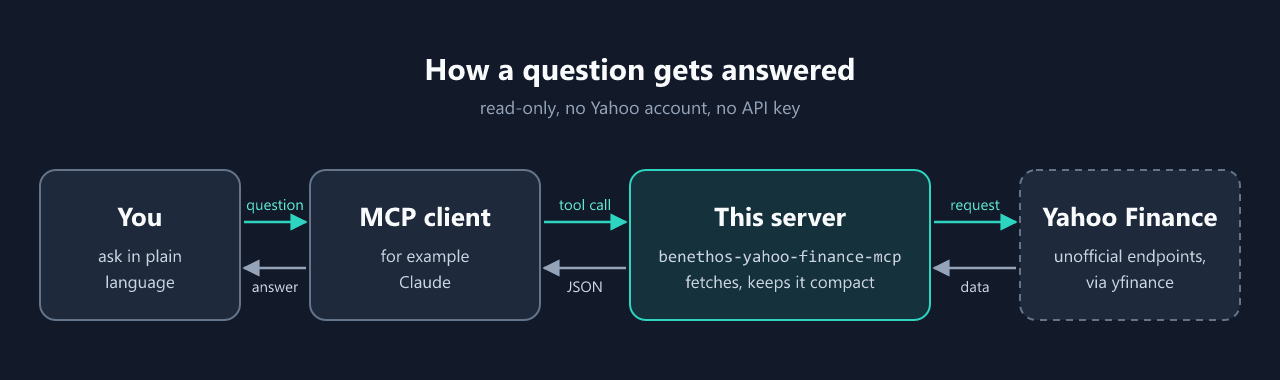
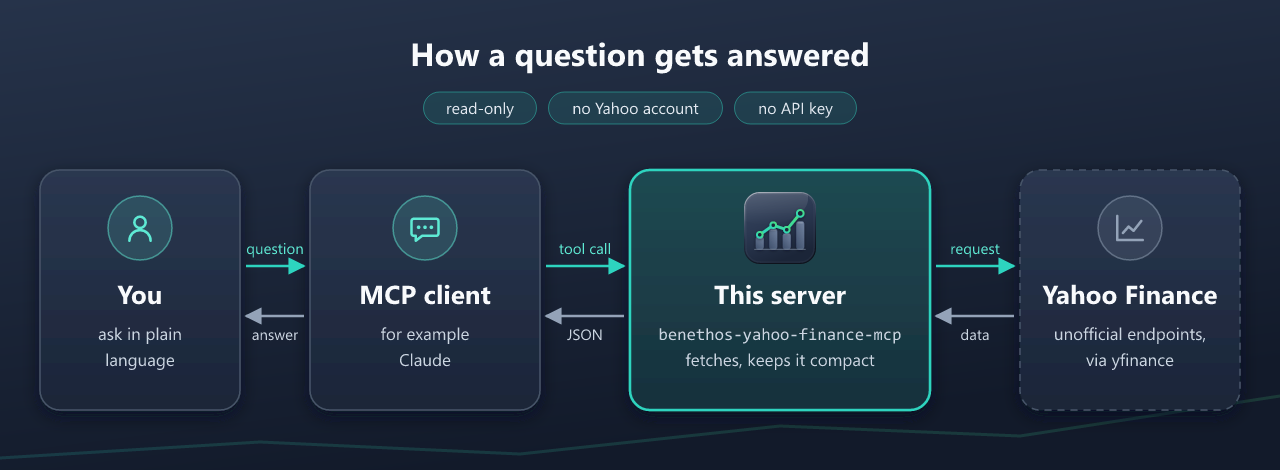
Redraw the architecture picture with symbols (#159)
Each station gets a symbol in a round plate, a person, a chat bubble and a
plain chart, and the server its own icon. The background and the cards take
the gradients of the social preview, and "read-only, no Yahoo account, no
API key" become pills. No logo of Yahoo or of a client, the project is
unofficial. The stations and the words on them stay as they were, so the
alt text in the README and SPECS still holds. 1280x470, up from 380.

render_icon.py rendered it on Windows with resvg 0.5.0, as its docstring
says. icon.png and social-preview.png came out byte for byte the same.

diff --git a/assets/render_icon.py b/assets/render_icon.py
@@ -47,7 +47,7 @@ ICON_SIZE = 512
 PREVIEW_PNG = BRAND / "social-preview.png"
 PREVIEW_WIDTH, PREVIEW_HEIGHT = 1280, 640
 ARCHITECTURE_PNG = HERE / "architecture.png"
-ARCHITECTURE_WIDTH, ARCHITECTURE_HEIGHT = 1280, 380
+ARCHITECTURE_WIDTH, ARCHITECTURE_HEIGHT = 1280, 470
 
 # The preview's words. Unofficial is spelled out and nothing borrows Yahoo's
 # look: the icon and the colours are the project's own.
@@ -119,29 +119,71 @@ def _icon(x: int, y: int, size: int) -> str:
     )
 
 
-def _step(x: int, w: int, title: str, *lines: str, kind: str) -> str:
-    """One station on the way, a title and a line or two under it.
+# Plain line symbols on a 24 unit grid, for the stations that are not this
+# project. No logo of anyone else: the project is unofficial, and neither
+# Yahoo's nor a client's look belongs in its picture.
+SYMBOLS = {
+    "person": (
+        '<circle cx="12" cy="8" r="4"/>'
+        '<path d="M4.5 21c0-4.2 3.3-7.5 7.5-7.5s7.5 3.3 7.5 7.5"/>'
+    ),
+    "chat": (
+        '<path d="M4 5.5h16a1.5 1.5 0 0 1 1.5 1.5v9a1.5 1.5 0 0 1-1.5 1.5H10'
+        'l-4.5 3.5v-3.5H4A1.5 1.5 0 0 1 2.5 16V7A1.5 1.5 0 0 1 4 5.5z"/>'
+        '<path d="M7.5 11.5h.01M12 11.5h.01M16.5 11.5h.01" stroke-width="2.6"/>'
+    ),
+    "market": ('<path d="M3 3.5V20.5H21"/><path d="M7 15.5l4-4.5 3.5 3 5.5-7"/>'),
+}
 
-    server is this project, outside is not its code, plain is the rest.
+# Where the stations sit, and the height of the arrows between them.
+CARD_Y, CARD_H = 170, 240
+GO_Y, BACK_Y = CARD_Y + 96, CARD_Y + 146
+
+
+def _badge(cx: float, symbol: str, colour: str) -> str:
+    """A symbol in a round plate at the top of a station."""
+    cy, size = CARD_Y + 58, 34
+    return (
+        f'<circle cx="{cx}" cy="{cy}" r="32" fill="{colour}" fill-opacity="0.14" '
+        f'stroke="{colour}" stroke-opacity="0.5" stroke-width="1.5"/>'
+        f'<svg x="{cx - size / 2}" y="{cy - size / 2}" width="{size}" '
+        f'height="{size}" viewBox="0 0 24 24" fill="none" stroke="{colour}" '
+        'stroke-width="1.8" stroke-linecap="round" stroke-linejoin="round">'
+        f"{SYMBOLS[symbol]}</svg>"
+    )
+
+
+def _step(x: int, w: int, title: str, *lines: str, kind: str, symbol: str) -> str:
+    """One station on the way: its symbol, a title and a line or two under it.
+
+    server is this project and carries its icon, outside is not its code,
+    plain is the rest.
     """
-    y, h = 170, 150
-    stroke = {"server": "#2DD4BF", "outside": "#64748B", "plain": "#64748B"}[kind]
-    fill = "#2DD4BF" if kind == "server" else "#1E293B"
-    opacity = "0.12" if kind == "server" else "1"
+    server = kind == "server"
+    stroke = "#2DD4BF" if server else "#475569"
+    fill = "url(#card-server)" if server else "url(#card)"
     dash = ' stroke-dasharray="7 6"' if kind == "outside" else ""
+    width = "2.5" if server else "1.5"
     cx = x + w / 2
+    badge = (
+        _icon(round(cx - 36), CARD_Y + 22, 72)
+        if server
+        else _badge(cx, symbol, "#94A3B8" if kind == "outside" else "#5EEAD4")
+    )
     parts = [
-        f'<rect x="{x}" y="{y}" width="{w}" height="{h}" rx="16" fill="{fill}" '
-        f'fill-opacity="{opacity}" stroke="{stroke}" stroke-width="2"{dash}/>',
-        f'<text x="{cx}" y="{y + 56}" font-size="26" font-weight="700" '
+        f'<rect x="{x}" y="{CARD_Y}" width="{w}" height="{CARD_H}" rx="20" '
+        f'fill="{fill}" stroke="{stroke}" stroke-width="{width}"{dash} '
+        'filter="url(#lift-card)"/>',
+        badge,
+        f'<text x="{cx}" y="{CARD_Y + 134}" font-size="26" font-weight="700" '
         f'fill="#F8FAFC" text-anchor="middle">{title}</text>',
     ]
     for i, line in enumerate(lines):
         mono = line.startswith("`")
         family = ' font-family="Consolas, Menlo, monospace"' if mono else ""
         parts.append(
-            f'<text x="{cx}" y="{y + 92 + 26 * i}" font-size="17" fill="#CBD5E1" '
-            f'text-anchor="middle"{family}>{line.strip("`")}</text>'
+            f'<text x="{cx}" y="{CARD_Y + 170 + 26 * i}" font-size="17" '
+            f'fill="#CBD5E1" text-anchor="middle"{family}>{line.strip("`")}</text>'
         )
     return "".join(parts)
 
@@ -150,15 +192,33 @@ def _hop(x1: int, x2: int, ask: str, reply: str) -> str:
     """A request going right above, its reply coming back below."""
     mid = (x1 + x2) / 2
     return (
-        f'<path d="M{x1 + 4} 222 H{x2 - 4}" stroke="#2DD4BF" stroke-width="2.5" '
+        f'<path d="M{x1 + 6} {GO_Y} H{x2 - 6}" stroke="#2DD4BF" stroke-width="2.5" '
         'marker-end="url(#go)"/>'
-        f'<path d="M{x2 - 4} 268 H{x1 + 4}" stroke="#94A3B8" stroke-width="2.5" '
+        f'<path d="M{x2 - 6} {BACK_Y} H{x1 + 6}" stroke="#94A3B8" stroke-width="2.5" '
         'marker-end="url(#back)"/>'
-        f'<text x="{mid}" y="210" font-size="15" fill="#5EEAD4" '
+        f'<text x="{mid}" y="{GO_Y - 12}" font-size="15" fill="#5EEAD4" '
         f'text-anchor="middle">{ask}</text>'
-        f'<text x="{mid}" y="292" font-size="15" fill="#CBD5E1" '
+        f'<text x="{mid}" y="{BACK_Y + 24}" font-size="15" fill="#CBD5E1" '
         f'text-anchor="middle">{reply}</text>'
     )
+
+
+def _pills(cx: int, y: int, *labels: str) -> str:
+    """Rounded labels in one centred row. Widths are estimated from the text."""
+    widths = [round(len(label) * 8.6) + 36 for label in labels]
+    gap = 12
+    x = cx - (sum(widths) + gap * (len(labels) - 1)) / 2
+    parts = []
+    for label, width in zip(labels, widths, strict=True):
+        parts.append(
+            f'<rect x="{x}" y="{y}" width="{width}" height="32" rx="16" '
+            'fill="#2DD4BF" fill-opacity="0.12" '
+            'stroke="#2DD4BF" stroke-opacity="0.45"/>'
+            f'<text x="{x + width / 2}" y="{y + 22}" font-size="16" fill="#E2E8F0" '
+            f'text-anchor="middle">{label}</text>'
+        )
+        x += width + gap
+    return "".join(parts)
 
 
 def _architecture() -> str:
@@ -166,19 +226,41 @@ def _architecture() -> str:
 
     The modules and which may import which stay in SPECS.md §3 as a table.
     """
-    markers = "".join(
+    defs = "".join(
         f'<marker id="{name}" viewBox="0 0 10 10" refX="9" refY="5" '
         'markerWidth="7" markerHeight="7" orient="auto">'
         f'<path d="M0 0L10 5L0 10z" fill="{colour}"/></marker>'
         for name, colour in (("go", "#2DD4BF"), ("back", "#94A3B8"))
     )
+    defs += (
+        '<linearGradient id="arch-bg" x1="0" y1="0" x2="0.35" y2="1">'
+        '<stop offset="0%" stop-color="#26334A"/>'
+        '<stop offset="100%" stop-color="#121A2A"/></linearGradient>'
+        '<linearGradient id="arch-line" x1="0" y1="1" x2="1" y2="0">'
+        '<stop offset="0%" stop-color="#2DD4BF"/>'
+        '<stop offset="100%" stop-color="#4ADE80"/></linearGradient>'
+        '<linearGradient id="card" x1="0" y1="0" x2="0" y2="1">'
+        '<stop offset="0%" stop-color="#2A3750"/>'
+        '<stop offset="100%" stop-color="#1B2538"/></linearGradient>'
+        '<linearGradient id="card-server" x1="0" y1="0" x2="0" y2="1">'
+        '<stop offset="0%" stop-color="#1F4A52"/>'
+        '<stop offset="100%" stop-color="#17303C"/></linearGradient>'
+        '<filter id="lift-card" x="-10%" y="-10%" width="120%" height="125%">'
+        '<feDropShadow dx="0" dy="6" stdDeviation="8" flood-color="#0B1120" '
+        'flood-opacity="0.55"/></filter>'
+    )
     body = [
-        '<text x="640" y="80" font-size="30" font-weight="700" fill="#F8FAFC" '
+        '<polyline points="0,458 260,442 520,454 780,426 1020,436 1280,396" '
+        'fill="none" stroke="url(#arch-line)" stroke-width="3" opacity="0.16"/>',
+        '<text x="640" y="66" font-size="32" font-weight="700" fill="#F8FAFC" '
         'text-anchor="middle">How a question gets answered</text>',
-        '<text x="640" y="114" font-size="18" fill="#94A3B8" '
-        'text-anchor="middle">read-only, no Yahoo account, no API key</text>',
-        _step(40, 200, "You", "ask in plain", "language", kind="plain"),
-        _step(310, 230, "MCP client", "for example", "Claude", kind="plain"),
+        _pills(640, 92, "read-only", "no Yahoo account", "no API key"),
+        _step(
+            40, 200, "You", "ask in plain", "language", kind="plain", symbol="person"
+        ),
+        _step(
+            310, 230, "MCP client", "for example", "Claude", kind="plain", symbol="chat"
+        ),
         _step(
             630,
             300,
@@ -186,6 +268,7 @@ def _architecture() -> str:
             "`benethos-yahoo-finance-mcp`",
             "fetches, keeps it compact",
             kind="server",
+            symbol="",
         ),
         _step(
             1020,
@@ -194,6 +277,7 @@ def _architecture() -> str:
             "unofficial endpoints,",
             "via yfinance",
             kind="outside",
+            symbol="market",
         ),
         _hop(240, 310, "question", "answer"),
         _hop(540, 630, "tool call", "JSON"),
@@ -202,8 +286,8 @@ def _architecture() -> str:
     return (
         f'<svg xmlns="http://www.w3.org/2000/svg" width="{ARCHITECTURE_WIDTH}" '
         f'height="{ARCHITECTURE_HEIGHT}" viewBox="0 0 {ARCHITECTURE_WIDTH} '
-        f'{ARCHITECTURE_HEIGHT}"><defs>{markers}</defs>'
-        '<rect width="100%" height="100%" fill="#121A2A"/>'
+        f'{ARCHITECTURE_HEIGHT}"><defs>{defs}</defs>'
+        '<rect width="100%" height="100%" fill="url(#arch-bg)"/>'
         '<g font-family="Segoe UI, Inter, Helvetica, Arial, sans-serif">'
         f"{''.join(body)}</g></svg>"
     )

diff --git a/CHANGELOG.md b/CHANGELOG.md
@@ -18,6 +18,9 @@ adheres to [Semantic Versioning](https://semver.org/spec/v2.0.0.html).
 
 ### Changed
 
+- The picture of how a question gets answered, in the README and SPECS, has
+  a symbol per station, the project's icon on the server and the colours of
+  the social preview. What it says stays the same.
 - `yfinance` and `pandas` stop at their next major, `<2` and `<4`, as `mcp`
   already did at `<3`. The auto-update extension and `uvx` install the
   newest versions allowed, and a major would reach them before anyone
